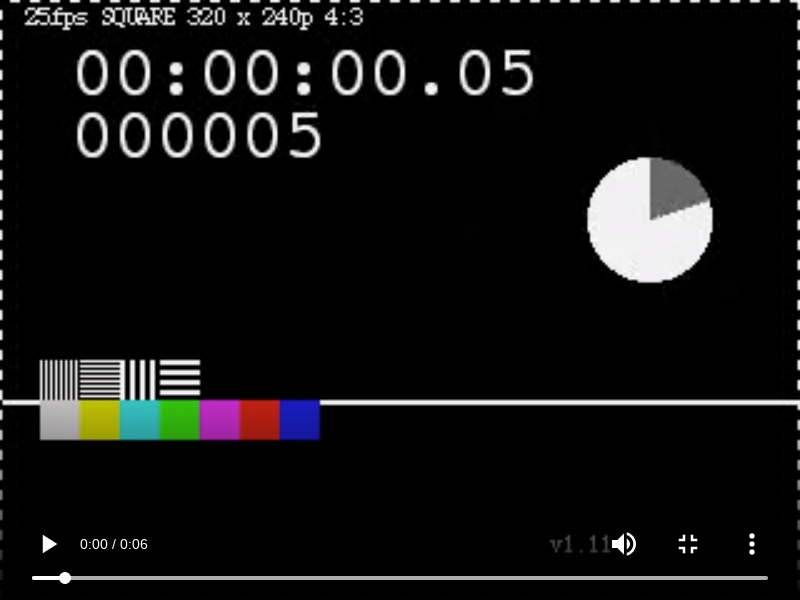
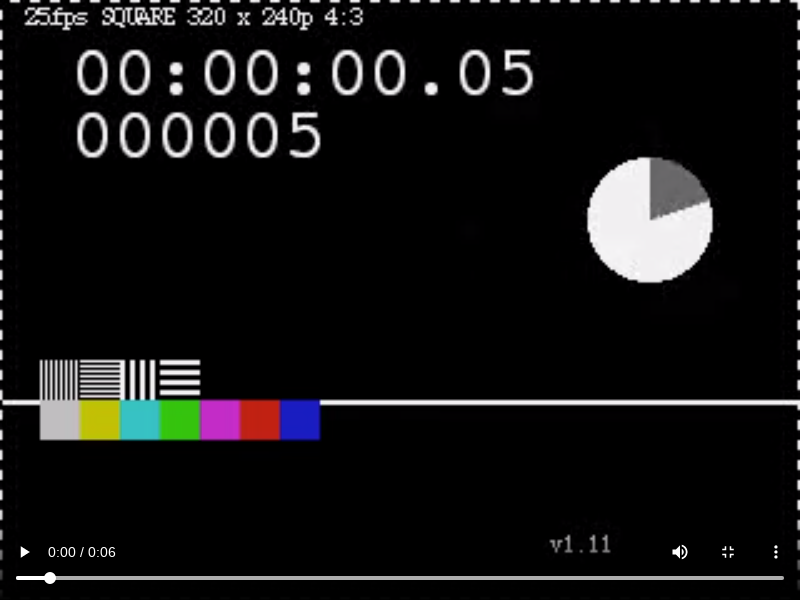
Media Controls: Use sizing-large instead of sizing-medium CSS class
This CL updates the media controls to not use larger styling until we
reach the "large" breakpoint (>1440px width) instead of applying them
when we reach the "medium" breakpoint (>740px width).

Bug: 957692
Commit-Queue: Tommy Steimel <steimel@chromium.org>
Cr-Commit-Position: refs/heads/master@{#655082}

diff --git a/renderer/modules/media_controls/resources/modernMediaControls.css b/renderer/modules/media_controls/resources/modernMediaControls.css
@@ -96,7 +96,7 @@ video::-webkit-media-controls.sizing-small div[pseudo="-webkit-media-controls-pa
   background-size: auto 92px;
 }
 
-video::-webkit-media-controls.sizing-medium div[pseudo="-webkit-media-controls-panel" i] {
+video::-webkit-media-controls.sizing-large div[pseudo="-webkit-media-controls-panel" i] {
   background-size: auto 200px;
 }
 
@@ -114,7 +114,7 @@ video::-webkit-media-controls.sizing-small div[pseudo="-webkit-media-controls-pa
   background-size: auto 120px, auto 92px;
 }
 
-video::-webkit-media-controls.sizing-medium div[pseudo="-webkit-media-controls-panel" i].scrubbing-message {
+video::-webkit-media-controls.sizing-large div[pseudo="-webkit-media-controls-panel" i].scrubbing-message {
   background-size: auto 120px, auto 200px;
 }
 
@@ -285,9 +285,9 @@ audio::-webkit-media-controls input[pseudo="-internal-media-controls-overflow-bu
   background-color: rgba(32, 33, 36, 0.06);
 }
 
-video::-webkit-media-controls.sizing-medium input[pseudo="-webkit-media-controls-play-button" i]::-internal-media-controls-button-hover-background,
-video::-webkit-media-controls.sizing-medium input[pseudo="-webkit-media-controls-fullscreen-button" i]::-internal-media-controls-button-hover-background,
-video::-webkit-media-controls.sizing-medium input[pseudo="-internal-media-controls-overflow-button" i]::-internal-media-controls-button-hover-background {
+video::-webkit-media-controls.sizing-large input[pseudo="-webkit-media-controls-play-button" i]::-internal-media-controls-button-hover-background,
+video::-webkit-media-controls.sizing-large input[pseudo="-webkit-media-controls-fullscreen-button" i]::-internal-media-controls-button-hover-background,
+video::-webkit-media-controls.sizing-large input[pseudo="-internal-media-controls-overflow-button" i]::-internal-media-controls-button-hover-background {
   background-size: 32px;
   width: 44px;
   height: 44px;
@@ -306,11 +306,11 @@ video::-webkit-media-controls.sizing-small input[pseudo="-internal-media-control
   min-width: 48px;
 }
 
-video::-webkit-media-controls.sizing-medium input[pseudo="-webkit-media-controls-play-button" i],
-video::-webkit-media-controls.sizing-medium input[pseudo="-webkit-media-controls-mute-button" i],
-video::-webkit-media-controls.sizing-medium input[pseudo="-webkit-media-controls-fullscreen-button" i],
-video::-webkit-media-controls.sizing-medium input[pseudo="-internal-media-controls-display-cutout-fullscreen-button" i],
-video::-webkit-media-controls.sizing-medium input[pseudo="-internal-media-controls-overflow-button" i] {
+video::-webkit-media-controls.sizing-large input[pseudo="-webkit-media-controls-play-button" i],
+video::-webkit-media-controls.sizing-large input[pseudo="-webkit-media-controls-mute-button" i],
+video::-webkit-media-controls.sizing-large input[pseudo="-webkit-media-controls-fullscreen-button" i],
+video::-webkit-media-controls.sizing-large input[pseudo="-internal-media-controls-display-cutout-fullscreen-button" i],
+video::-webkit-media-controls.sizing-large input[pseudo="-internal-media-controls-overflow-button" i] {
   width: 64px;
   height: 64px;
   min-width: 64px;
@@ -323,7 +323,7 @@ video::-webkit-media-controls.sizing-small div[pseudo="-internal-media-controls-
   padding: 0 0 0 16px;
 }
 
-video::-webkit-media-controls.sizing-medium div[pseudo="-internal-media-controls-button-panel" i] {
+video::-webkit-media-controls.sizing-large div[pseudo="-internal-media-controls-button-panel" i] {
   height: 64px;
   line-height: 64px;
   padding: 0 16px 0 32px;
@@ -520,16 +520,16 @@ video::-webkit-media-controls [pseudo="-webkit-media-controls-volume-control-con
   opacity: 0;
 }
 
-video::-webkit-media-controls.sizing-medium div[pseudo="-webkit-media-controls-volume-control-container" i] {
+video::-webkit-media-controls.sizing-large div[pseudo="-webkit-media-controls-volume-control-container" i] {
   height: 64px;
   min-width: 132px;
 }
 
-video::-webkit-media-controls.sizing-medium div[pseudo="-webkit-media-controls-volume-control-container" i].closed {
+video::-webkit-media-controls.sizing-large div[pseudo="-webkit-media-controls-volume-control-container" i].closed {
   min-width: 64px;
 }
 
-video::-webkit-media-controls.sizing-medium div[pseudo="-webkit-media-controls-volume-control-hover-background" i] {
+video::-webkit-media-controls.sizing-large div[pseudo="-webkit-media-controls-volume-control-hover-background" i] {
   height: 44px;
   width: 124px;
   border-radius: 22px;
@@ -626,7 +626,7 @@ video::-webkit-media-controls.sizing-small input[pseudo="-webkit-media-controls-
   padding: 0 16px 20px 16px;
 }
 
-video::-webkit-media-controls.sizing-medium input[pseudo="-webkit-media-controls-timeline" i] {
+video::-webkit-media-controls.sizing-large input[pseudo="-webkit-media-controls-timeline" i] {
   padding: 0 32px 20px 32px;
 }
 
@@ -794,7 +794,7 @@ video::-webkit-media-controls-volume-slider.closed {
   transition: width 0.3s ease, opacity 0.28s step-end;
 }
 
-video::-webkit-media-controls.sizing-medium input[pseudo="-webkit-media-controls-volume-slider" i] {
+video::-webkit-media-controls.sizing-large input[pseudo="-webkit-media-controls-volume-slider" i] {
   padding: 30px 0; /* (64px button panel height - 4px slider height) / 2  */
 }
 
@@ -892,7 +892,7 @@ video::-internal-media-controls-overflow-menu-list-item {
 }
 
 video::-webkit-media-controls.sizing-small label[pseudo="-internal-media-controls-overflow-menu-list-item" i] input,
-video::-webkit-media-controls.sizing-medium label[pseudo="-internal-media-controls-overflow-menu-list-item" i] input {
+video::-webkit-media-controls.sizing-large label[pseudo="-internal-media-controls-overflow-menu-list-item" i] input {
   margin-left: 0;
   margin-right: 16px;
   width: 24px;

diff --git a/web_tests/media/controls/resizing-changes-css-class.html b/web_tests/media/controls/resizing-changes-css-class.html
@@ -11,11 +11,11 @@ async_test(t => {
   const video = document.querySelector('video');
   const testCases = [
     { width: 500, expect: expectSmall },
-    { width: 1441, expect: expectMedium },
-    { width: 800, expect: expectMedium },
-    { width: 2000, expect: expectMedium },
+    { width: 1441, expect: expectLarge },
+    { width: 800, expect: expectSmall },
+    { width: 2000, expect: expectLarge },
     { width: 0, expect: expectSmall },
-    { width: 741, expect: expectMedium },
+    { width: 741, expect: expectSmall },
     { width: 308, expect: expectSmall },
     { width: 150, expect: expectSmall },
   ];
@@ -40,11 +40,11 @@ async_test(t => {
 
   function expectSmall() {
     checkControlsHasClass(video, 'sizing-small');
-    checkControlsDoesNotHaveClass(video, 'sizing-medium');
+    checkControlsDoesNotHaveClass(video, 'sizing-large');
   }
 
-  function expectMedium() {
-    checkControlsHasClass(video, 'sizing-medium');
+  function expectLarge() {
+    checkControlsHasClass(video, 'sizing-large');
     checkControlsDoesNotHaveClass(video, 'sizing-small');
   }
 

diff --git a/renderer/modules/media_controls/media_controls_impl.cc b/renderer/modules/media_controls/media_controls_impl.cc
@@ -1453,11 +1453,11 @@ void MediaControlsImpl::UpdateSizingCSSClass() {
 
   SetClass(kMediaControlsSizingSmallCSSClass,
            ShouldShowVideoControls() &&
-               sizing_class == MediaControlsSizingClass::kSmall);
-  SetClass(kMediaControlsSizingMediumCSSClass,
+               (sizing_class == MediaControlsSizingClass::kSmall ||
+                sizing_class == MediaControlsSizingClass::kMedium));
+  SetClass(kMediaControlsSizingLargeCSSClass,
            ShouldShowVideoControls() &&
-               (sizing_class == MediaControlsSizingClass::kMedium ||
-                sizing_class == MediaControlsSizingClass::kLarge));
+               sizing_class == MediaControlsSizingClass::kLarge);
 }
 
 void MediaControlsImpl::MaybeToggleControlsFromTap() {
